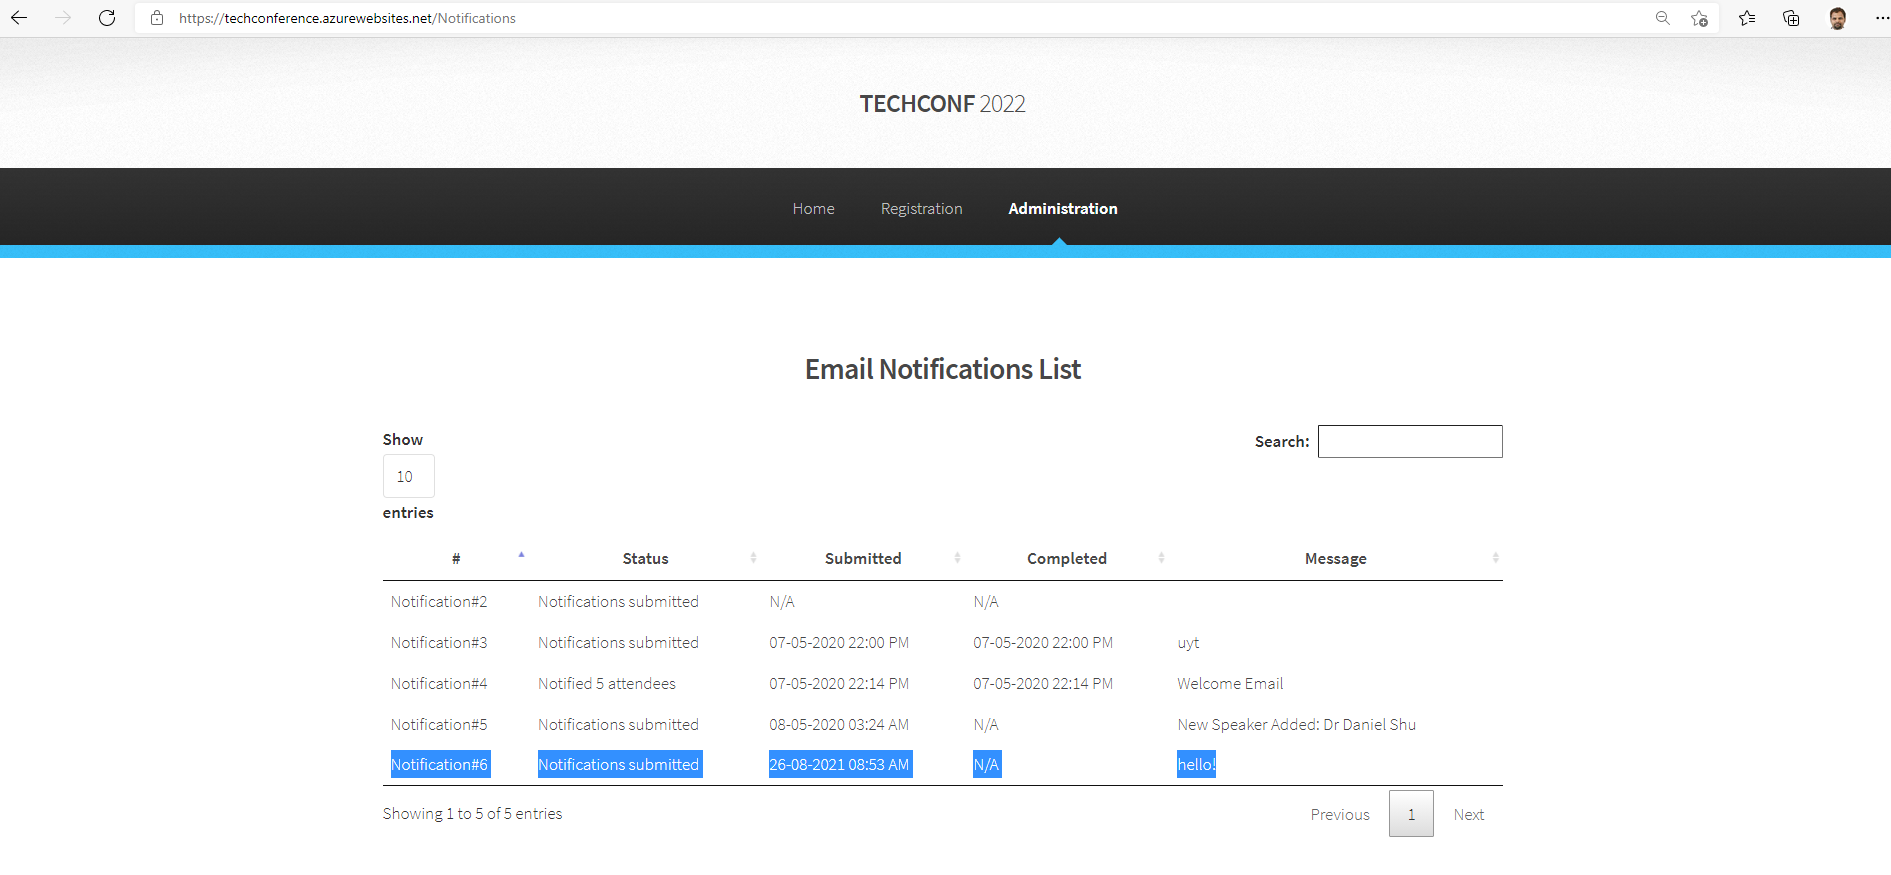
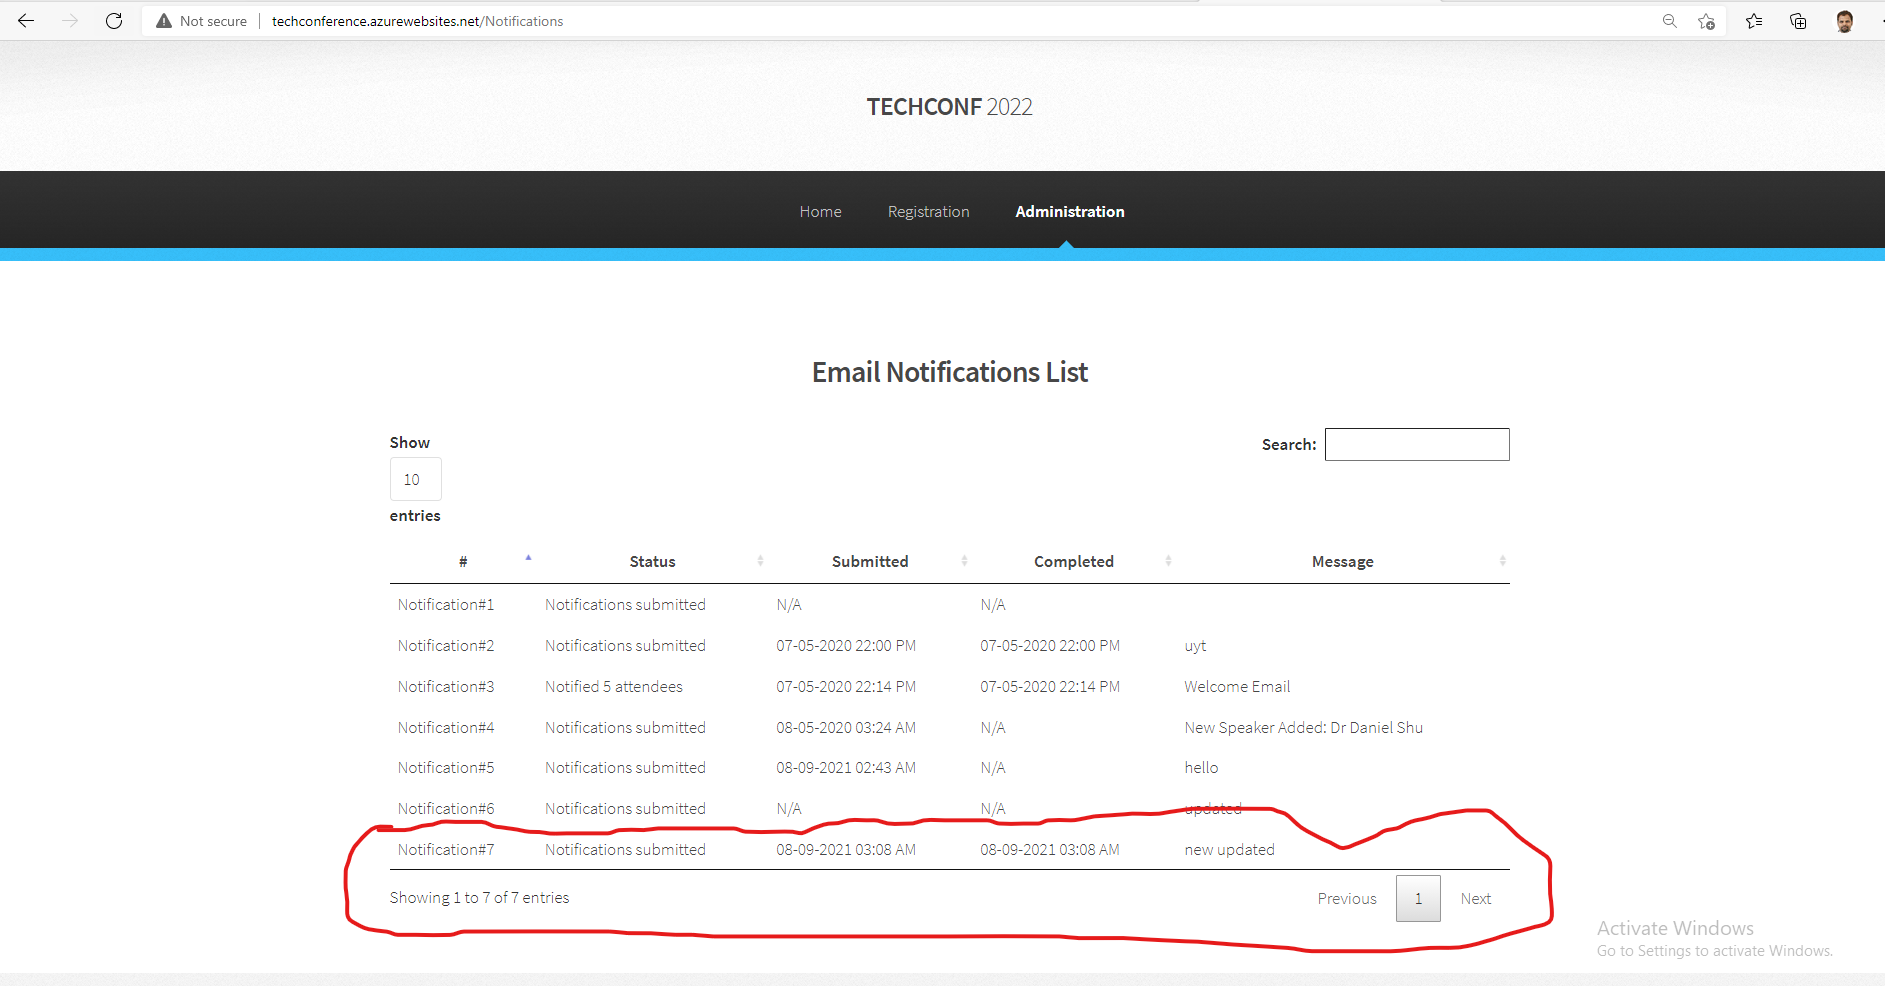
final update

diff --git a/web/config.py b/web/config.py
@@ -6,13 +6,13 @@ class BaseConfig:
     DEBUG = True
     POSTGRES_URL="techconfserver.postgres.database.azure.com"  #TODO: Update value
     POSTGRES_USER='garima@techconfserver'#TODO: Update value
-    POSTGRES_PW='Jindagi123?'   #TODO: Update value
+    POSTGRES_PW='admin123?'   #TODO: Update value
     POSTGRES_DB="techconfdb"   #TODO: Update value
     DB_URL = 'postgresql://{user}:{pw}@{url}/{db}'.format(user=POSTGRES_USER,pw=POSTGRES_PW,url=POSTGRES_URL,db=POSTGRES_DB)
     SQLALCHEMY_DATABASE_URI = os.getenv('SQLALCHEMY_DATABASE_URI') or DB_URL
     CONFERENCE_ID = 1
     SECRET_KEY = 'LWd2tzlprdGHCIPHTd4tp5SBFgDszm'
-    SERVICE_BUS_CONNECTION_STRING ='Endpoint=sb://notificationqueue1.servicebus.windows.net/;SharedAccessKeyName=RootManageSharedAccessKey;SharedAccessKey=k5afFLTgbI8npYRcxmJk4WURjqbl1cH2hcN8pFD3QBw=' #TODO: Update value
+    SERVICE_BUS_CONNECTION_STRING ='Endpoint=sb://notificationqueue11.servicebus.windows.net/;SharedAccessKeyName=RootManageSharedAccessKey;SharedAccessKey=O3RtPAOCpn4RSNgtETW5xM/ApCipyIaBd9vzAIXSzYw=' #TODO: Update value
     SERVICE_BUS_QUEUE_NAME ='queue1sb'
     ADMIN_EMAIL_ADDRESS: 'info@techconf.com'
     SENDGRID_API_KEY = os.getenv('sendgridapikey') #Configuration not required, required SendGrid Account

diff --git a/web/app/routes.py b/web/app/routes.py
@@ -64,6 +64,7 @@ def notification():
 
         try:
             db.session.add(notification)
+            notification.completed_date = datetime.utcnow()
             db.session.commit()
             '''
             ##################################################
